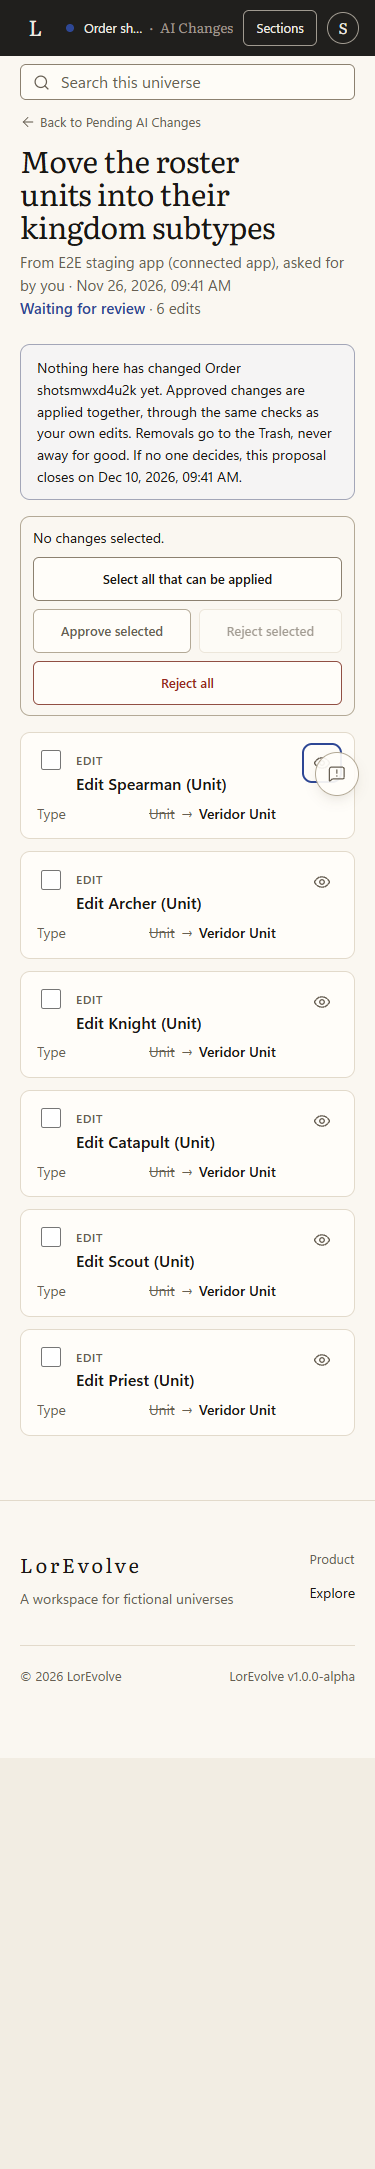
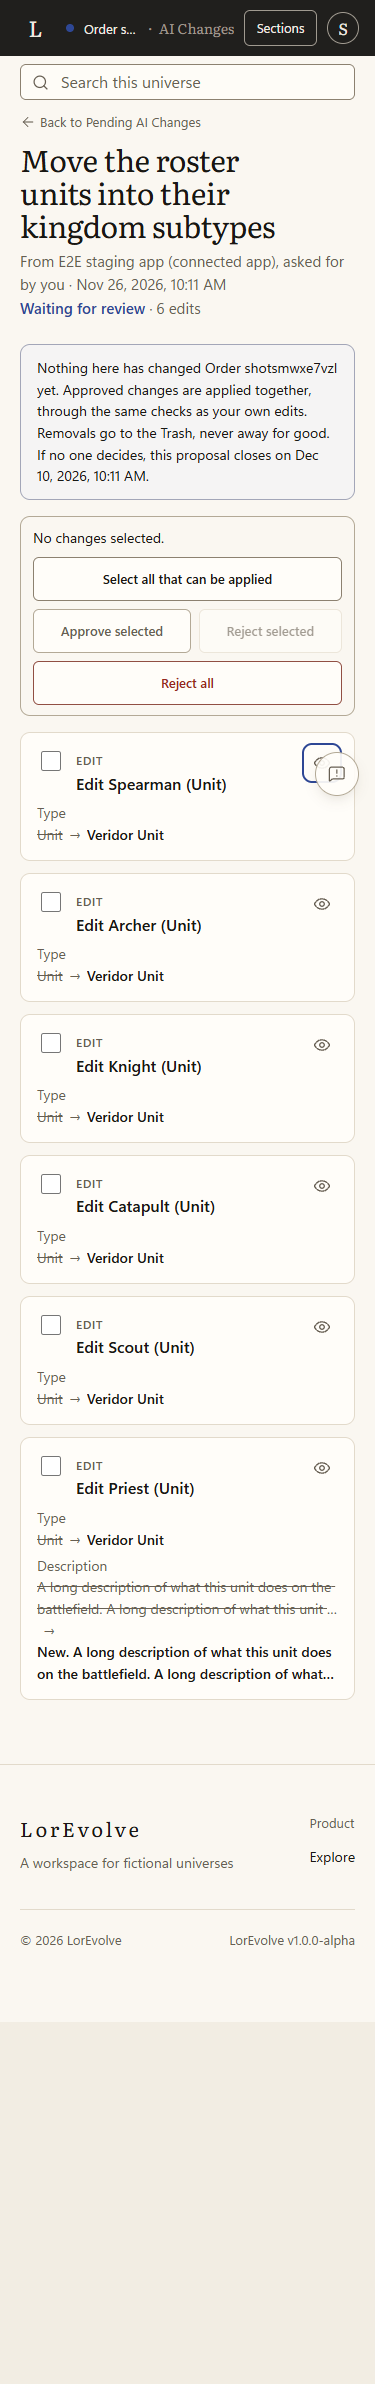
[FIX] AI change review: project entry description in its own file; cards keep the proposed value visible

diff --git a/src/LorEvolve.Web/src/components/aiChanges/ChangeDrawer.tsx b/src/LorEvolve.Web/src/components/aiChanges/ChangeDrawer.tsx
@@ -35,6 +35,7 @@ export function ChangeDrawer({
 }) {
   const { t } = useI18n()
   const [dirty, setDirty] = useState(false)
+  const [saving, setSaving] = useState(false)
   const pending = change.status === ChangeStatus.Pending
   const link = change.status === ChangeStatus.Committed ? itemPath(universeId, change) : null
 
@@ -45,6 +46,7 @@ export function ChangeDrawer({
       eyebrow={action}
       title={<bdi>{change.title}</bdi>}
       isDirty={editing && dirty}
+      busy={saving}
       leaveMessage={t('review.aiChange.edit.leave')}
       closeTestId="ai-change-detail-close"
       onClose={() => {
@@ -86,6 +88,7 @@ export function ChangeDrawer({
           change={change}
           values={change.editable}
           onDirty={setDirty}
+          onSaving={setSaving}
           onCancel={() => onEdit(false)}
           onSaved={(next) => {
             onClose()

diff --git a/src/LorEvolve.Web/src/styles/113-pending-ai-changes.css b/src/LorEvolve.Web/src/styles/113-pending-ai-changes.css
@@ -114,18 +114,21 @@
   display: grid;
   gap: 0.375rem;
 }
-.aichangeitem__body .aichangeitem__line {
-  grid-template-columns: minmax(4rem, 7rem) minmax(0, 1fr);
-}
-/* A card previews a value; the drawer shows all of it. */
+/* A card previews a value; the drawer shows all of it. Each side is cut on its own, so a long old value never hides
+   the proposed one. */
 .aichangeitem__excerpt {
   margin: 0;
   font-family: var(--display);
   overflow-wrap: anywhere;
 }
-.aichangeitem__excerpt,
-.aichangeitem__body .aichangeitem__line dd {
+.aichangeitem__excerpt {
   display: -webkit-box;
+}
+.aichangeitem__excerpt,
+.aichangeitem__body dd > span:not(.aichangeitem__arrow) {
+  display: -webkit-inline-box;
+  max-width: 100%;
+  vertical-align: bottom;
   -webkit-box-orient: vertical;
   -webkit-line-clamp: 2;
   overflow: hidden;

diff --git a/src/LorEvolve.Web/src/components/aiChanges/EditChange.tsx b/src/LorEvolve.Web/src/components/aiChanges/EditChange.tsx
@@ -21,6 +21,7 @@ export function EditChange({
   change,
   values,
   onDirty,
+  onSaving,
   onCancel,
   onSaved,
 }: {
@@ -30,6 +31,8 @@ export function EditChange({
   values: ChangeEditable
   /** Told whether the draft differs from what it opened with. */
   onDirty: (dirty: boolean) => void
+  /** Told while a save is in flight. */
+  onSaving: (saving: boolean) => void
   onCancel: () => void
   onSaved: (next: Proposal) => void
 }) {
@@ -48,6 +51,10 @@ export function EditChange({
   useEffect(() => {
     onDirty(payloadKey(draft) !== payloadKey(values))
   }, [draft, values, onDirty])
+
+  useEffect(() => {
+    onSaving(saving)
+  }, [saving, onSaving])
 
   async function submit(event: FormEvent) {
     event.preventDefault()

diff --git a/src/LorEvolve.Api/Features/AiChanges/AiChangeViews.cs b/src/LorEvolve.Api/Features/AiChanges/AiChangeViews.cs
@@ -14,7 +14,7 @@ namespace LorEvolve.Api.Features.AiChanges;
 /// names resolved live, what a removal touches, and what is wrong with it now - never the AI's JSON. Every string that
 /// came from the AI stays plain text; the client draws it as text. Reads only.
 /// </summary>
-internal static class AiChangeViews
+internal static partial class AiChangeViews
 {
     /// <summary>
     /// The proposals a reader is shown: every one in a universe where they could approve, and their own elsewhere - only while
@@ -496,28 +496,7 @@ internal static class AiChangeViews
             }
 
             case (ProjectEntryValues entry, var before):
-            {
-                var old = before as ProjectEntryValues;
-                Line("Type", old is null ? null : names.EntryType(old), names.EntryType(entry));
-                Line("Name", old?.Name, entry.Name);
-                Line("Description", string.IsNullOrEmpty(old?.Summary) ? null : old.Summary, string.IsNullOrEmpty(entry.Summary) ? null : entry.Summary);
-                Line("Lore entry", old?.CanonEntryId is { } linked ? names.Entry(AiRef.To(linked)) : null,
-                    entry.CanonEntryId is { } link ? names.Entry(AiRef.To(link)) : null);
-                static string Key(ProjectFieldValue value) => value.FieldRef ?? value.FieldId.ToString();
-                foreach (var key in entry.Fields.Concat(old?.Fields ?? []).Select(Key).Distinct())
-                {
-                    var was = old?.Fields.FirstOrDefault(value => Key(value) == key);
-                    var now = entry.Fields.FirstOrDefault(value => Key(value) == key);
-                    Line(
-                        names.ProjectField((now ?? was)!),
-                        was is null ? null : names.ProjectValue(was),
-                        now is null ? null : names.ProjectValue(now));
-                }
-
-                return (work.Action == AiChangeAction.Create
-                    ? $"New {names.EntryType(entry)}: {entry.Name}"
-                    : $"Edit {old?.Name ?? entry.Name} ({names.EntryType(old ?? entry)})", lines);
-            }
+                return (DescribeProjectEntry(work.Action, entry, before as ProjectEntryValues, names, Line), lines);
 
             case (RelationshipValues relationship, var before):
             {
@@ -812,7 +791,7 @@ internal static class AiChangeViews
             : string.Join("; ", beats.Select((beat, index) => $"{index + 1}. {beat.Title}{(beat.Note is { } note ? $" ({note})" : string.Empty)}"));
 
     /// <summary>The names a review shows, read once for a proposal and only from its universe.</summary>
-    private sealed class Names
+    private sealed partial class Names
     {
         private Dictionary<Guid, string> _types = [];
         private Dictionary<Guid, (string Name, EntityFieldKind Kind, int Order, Dictionary<Guid, string> Options)> _fields = [];
@@ -842,12 +821,7 @@ internal static class AiChangeViews
                     .Append(work.ResultId))
                 .OfType<Guid>()
                 .ToHashSet();
-            foreach (var entry in works.SelectMany(work => new[] { work.Proposed, work.Before }).OfType<ProjectEntryValues>())
-            {
-                ids.UnionWith(entry.Fields.Select(value => value.LinkedEntryId).Append(entry.CanonEntryId).OfType<Guid>());
-            }
-
-
+            ids.UnionWith(ProjectEntryReferences(works));
             // A project's fields hang off types the ordinary reads hide.
             var fields = await db.EntityFieldDefinitions.AsNoTracking().IgnoreQueryFilters()
                 .Where(field => field.EntityType!.UniverseId == universeId)
@@ -903,27 +877,6 @@ internal static class AiChangeViews
         public string Appearance(Guid id) => _appearances.GetValueOrDefault(id) ?? "that isn't there any more";
 
         public string Parent(AiRef? reference) => reference is null ? "Nothing (top level)" : TypeRef(reference);
-
-        /// <summary>A project's type an existing id names, or one this proposal creates.</summary>
-        public string ProjectType(AiRef reference) => Named(reference, _projectTypes, work => (work.Proposed as ProjectTypeValues)?.Name);
-
-        public string EntryType(ProjectEntryValues entry) =>
-            ProjectType(entry.TypeRef is { } key ? new AiRef(null, key) : AiRef.To(entry.TypeId));
-
-        public string ProjectField(ProjectFieldValue value) => value.FieldRef is { } key
-            ? Named(new AiRef(null, key), [], work => (work.Proposed as ProjectSchemaFieldValues)?.Name)
-            : Field(value.FieldId);
-
-        /// <summary>A project entry's field value in words; its choices are stored as their own text.</summary>
-        public string? ProjectValue(ProjectFieldValue value) =>
-            value.Text
-            ?? value.Number?.ToString(CultureInfo.InvariantCulture)
-            ?? (value.Boolean is { } flag ? YesNo(flag) : null)
-            ?? value.Date?.ToString("yyyy-MM-dd", CultureInfo.InvariantCulture)
-            ?? (value.Choices is { Count: > 0 } chosen ? string.Join(", ", chosen) : null)
-            ?? (value.LinkedEntryId is { } linked ? Entry(AiRef.To(linked)) : null);
-
-        public string ProjectParent(AiRef? reference) => reference is null ? "Nothing (top level)" : ProjectType(reference);
 
         /// <summary>What a link field accepts, in words; null for a field that is not a link.</summary>
         public string? Links(FieldValues field) => field.Kind != EntityFieldKind.EntityReference

diff --git a/src/LorEvolve.Api/Features/AiChanges/AiChangeViews.ProjectEntry.cs b/src/LorEvolve.Api/Features/AiChanges/AiChangeViews.ProjectEntry.cs
@@ -1,0 +1,68 @@
+using System.Globalization;
+
+namespace LorEvolve.Api.Features.AiChanges;
+
+/// <summary>How the review describes a change to a project's entry, such as a game's unit.</summary>
+internal static partial class AiChangeViews
+{
+    private static string DescribeProjectEntry(
+        AiChangeAction action,
+        ProjectEntryValues entry,
+        ProjectEntryValues? old,
+        Names names,
+        Action<string, string?, string?> line)
+    {
+        line("Type", old is null ? null : names.EntryType(old), names.EntryType(entry));
+        line("Name", old?.Name, entry.Name);
+        line("Description", Filled(old?.Summary), Filled(entry.Summary));
+        line("Lore entry", old?.CanonEntryId is { } was ? names.Entry(AiRef.To(was)) : null,
+            entry.CanonEntryId is { } now ? names.Entry(AiRef.To(now)) : null);
+        foreach (var key in entry.Fields.Concat(old?.Fields ?? []).Select(Key).Distinct())
+        {
+            var before = old?.Fields.FirstOrDefault(value => Key(value) == key);
+            var after = entry.Fields.FirstOrDefault(value => Key(value) == key);
+            line(
+                names.ProjectField((after ?? before)!),
+                before is null ? null : names.ProjectValue(before),
+                after is null ? null : names.ProjectValue(after));
+        }
+
+        return action == AiChangeAction.Create
+            ? $"New {names.EntryType(entry)}: {entry.Name}"
+            : $"Edit {old?.Name ?? entry.Name} ({names.EntryType(old ?? entry)})";
+
+        static string? Filled(string? text) => string.IsNullOrEmpty(text) ? null : text;
+        static string Key(ProjectFieldValue value) => value.FieldRef ?? value.FieldId.ToString();
+    }
+
+    /// <summary>The entries a proposal's project entries link to, so their names are read too.</summary>
+    private static IEnumerable<Guid> ProjectEntryReferences(List<AiChangeWork> works) => works
+        .SelectMany(work => new[] { work.Proposed, work.Before })
+        .OfType<ProjectEntryValues>()
+        .SelectMany(entry => entry.Fields.Select(value => value.LinkedEntryId).Append(entry.CanonEntryId))
+        .OfType<Guid>();
+
+    private sealed partial class Names
+    {
+        /// <summary>A project's type an existing id names, or one this proposal creates.</summary>
+        public string ProjectType(AiRef reference) => Named(reference, _projectTypes, work => (work.Proposed as ProjectTypeValues)?.Name);
+
+        public string EntryType(ProjectEntryValues entry) =>
+            ProjectType(entry.TypeRef is { } key ? new AiRef(null, key) : AiRef.To(entry.TypeId));
+
+        public string ProjectField(ProjectFieldValue value) => value.FieldRef is { } key
+            ? Named(new AiRef(null, key), _fields.ToDictionary(field => field.Key, field => field.Value.Name), work => (work.Proposed as ProjectSchemaFieldValues)?.Name)
+            : Field(value.FieldId);
+
+        /// <summary>A project entry's field value in words; its choices are stored as their own text.</summary>
+        public string? ProjectValue(ProjectFieldValue value) =>
+            value.Text
+            ?? value.Number?.ToString(CultureInfo.InvariantCulture)
+            ?? (value.Boolean is { } flag ? YesNo(flag) : null)
+            ?? value.Date?.ToString("yyyy-MM-dd", CultureInfo.InvariantCulture)
+            ?? (value.Choices is { Count: > 0 } chosen ? string.Join(", ", chosen.Order(StringComparer.Ordinal)) : null)
+            ?? (value.LinkedEntryId is { } linked ? Entry(AiRef.To(linked)) : null);
+
+        public string ProjectParent(AiRef? reference) => reference is null ? "Nothing (top level)" : ProjectType(reference);
+    }
+}

diff --git a/tests/LorEvolve.Api.Tests/McpProjectSchemaProposalTests.cs b/tests/LorEvolve.Api.Tests/McpProjectSchemaProposalTests.cs
@@ -76,10 +76,14 @@ public sealed class McpProjectSchemaProposalTests(McpProjectSchemaFixture fixtur
 
         await AiChangeTestClient.ApproveAll(W.Owner, W.U, proposalId);
 
+        // Once applied, a field this proposal made is named as itself.
+        var applied = await AiChangeTestClient.Read(W.Owner, W.U, proposalId);
+        Assert.Contains(applied.Operations.Single(operation => operation.Key == "e1").Lines, line => line.Label == "Health");
+
         // An edit of it names the entry and its type, and shows only what changes.
-        var entryId = (await AiChangeTestClient.Read(W.Owner, W.U, proposalId)).Operations.Single(operation => operation.Key == "e1").ResultId;
+        var entryId = applied.Operations.Single(operation => operation.Key == "e1").ResultId;
         var edit = await Call(client, Proposal(
-            "Rename the golem and give it less health",
+            "Rename the golem",
             new { id = "u1", action = "update", resource = "project_entry", targetId = entryId, projectEntry = new { name = "Salt golem" } }));
         var renamed = (await AiChangeTestClient.Read(W.Owner, W.U, edit.GetProperty("proposalId").GetGuid())).Operations.Single();
         Assert.Equal("Edit Brine golem (GameEntity)", renamed.Title);

diff --git a/SYSTEMS.md b/SYSTEMS.md
@@ -252,7 +252,7 @@ Repository index. Paths and one-line responsibilities only.
 | `Features/AiChanges/*.Progression.cs` | Issue #59 phase 3, ADR 0062: `progression` (content): one entry's eras, forms, abilities and appearances as a patch over its `ProgressionSnapshot` - added (ids given at staging, named by keys) or changed by id, never removed; checked by `ProgressionState.NormalizeAsync`, bound to the version, written by `ProgressionEndpoints.WriteAsync(givenIds)`; pictures untouched. `get_change_options` with `loreId` lists that entry's progression. |
 | `Features/AiChanges/*.WorldLogic.cs` | ADR 0072 addendum: `system_rule` (alias `world_logic_rule`) and `system` (content): create and update only, never removed. A rule carries title, description, project, condition, exceptions and `dependsOn` (ids or refs); a System its name, summary and whole ordered `ruleIds` list (ids or refs). Checked by the routes' own `SystemRuleEndpoints.Validate` / `ConditionProblemOf` / `DependencyProblemAsync` and `SystemEndpoints.Validate`, bound to the version read at staging (a System also to its rule list); committed through `SystemRuleEndpoints.*CoreAsync` and `SystemEndpoints.*CoreAsync`, the list as link/unlink by difference. A condition may name only records that already exist. |
 | `Features/AiChanges/*.Schema.cs` + `AiChangeChecks.Definitions.cs` + `AiChangeSchemaContracts.cs` | Issue #59, ADR 0062: schema proposals - `lore_type`, `lore_field` (remove = archive), `lore_group`, and (phase 2) `relationship_kind` (direction kept while in use, Canon rules and family meaning carried), `chronology` (written whole; existing periods and months kept in order, a dated period keeps its count, no calendar over simple months in use), `event_kind`/`method`; inputs, stored `TypeValues`/`FieldValues`/`GroupValues`, builders (no field meaning from an AI), checks (Types screen validators and `FieldAddRefusalAsync`/`FieldEditRefusalAsync`, names unique in universe and batch, no parent ring, groups links rely on), stored forms; never in one proposal with content; staged only with `AiChangeOrigin.SchemaAllowed`; written through `EntityTypeEndpoints`/`EntityTypeGroupEndpoints` cores. |
-| `Features/AiChanges/AiChangeViews.cs` + `AiChangeCatalog.cs` + `AiChangeRetention.cs` + `AiChangeEndpoints.cs` | The review's reading (titles, before/after lines with live names, prose, removal impact, editable values, `Blocked`); who sees what (`Visible`); the options an AI may use (`get_change_options`); expiry and removal sweeps (write only when due); `GET /api/ai-changes` (+ `/count`), `GET/PUT/POST /api/universes/{u}/ai-changes/{p}[/operations/{o}|/approve|/reject]`, session only. A proposal holding an idea change is its proposer's alone (`Visible`, `MayRead`); the catalog adds arcs, rules, event kinds, methods and - owner only - ideas (ADR 0048). |
+| `Features/AiChanges/AiChangeViews.cs` (project entries in `AiChangeViews.ProjectEntry.cs`) + `AiChangeCatalog.cs` + `AiChangeRetention.cs` + `AiChangeEndpoints.cs` | The review's reading (titles, before/after lines with live names, prose, removal impact, editable values, `Blocked`); who sees what (`Visible`); the options an AI may use (`get_change_options`); expiry and removal sweeps (write only when due); `GET /api/ai-changes` (+ `/count`), `GET/PUT/POST /api/universes/{u}/ai-changes/{p}[/operations/{o}|/approve|/reject]`, session only. A proposal holding an idea change is its proposer's alone (`Visible`, `MayRead`); the catalog adds arcs, rules, event kinds, methods and - owner only - ideas (ADR 0048). |
 | `Features/Trash/TrashEndpoints.cs` | The Trash listing of every kind - entries, story content and world rules - newest first with where each was, and the gated entry restore (private when restored by someone without `Publish`); maps each kind's restore and permanent-delete route. Also relationships (`EntryInTrash` block, `EntryId`) and timeline moments, with their typed restore routes (ADR 0048). |
 | `Features/Trash/TrashPermanentDelete.cs` | Deleting Trash rows for good (ADR 0015/0029/0033 amendments): typed `DELETE .../trash[/kind]/{id}` for one, `POST .../trash/bulk-delete` (`{ items: [{ kind, id }] }`, 1-100, mixed kinds, all or none, 409 `trash_selection_changed`) for a selection - both one plan: the whole selection resolved (exact kind, universe, marker) before anything is written, then erased by set, parents first, with the schema's cascades (overlapping parent/child selections valid; a story's route and the bulk answer name the erased scene ids, the bulk answer the erased entry ids too, for recovery-copy cleanup); for an entry, reference values, emptied moment details and Canon findings naming it removed in a reconciled transaction, then its image objects swept after the commit; a rule's findings forgotten. Relationship and timeline moment kinds erase their rows and forget their findings (ADR 0048). |
 | `Features/Trash/StoryContentRestore.cs` | Restoring a story, chapter, scene or arc: appended to its order, refused while its story is in the Trash, `ManageTrash` (Editors and the owner); restored by someone without `Publish`, a story, scene (outline and manuscript) or arc comes back private. |
